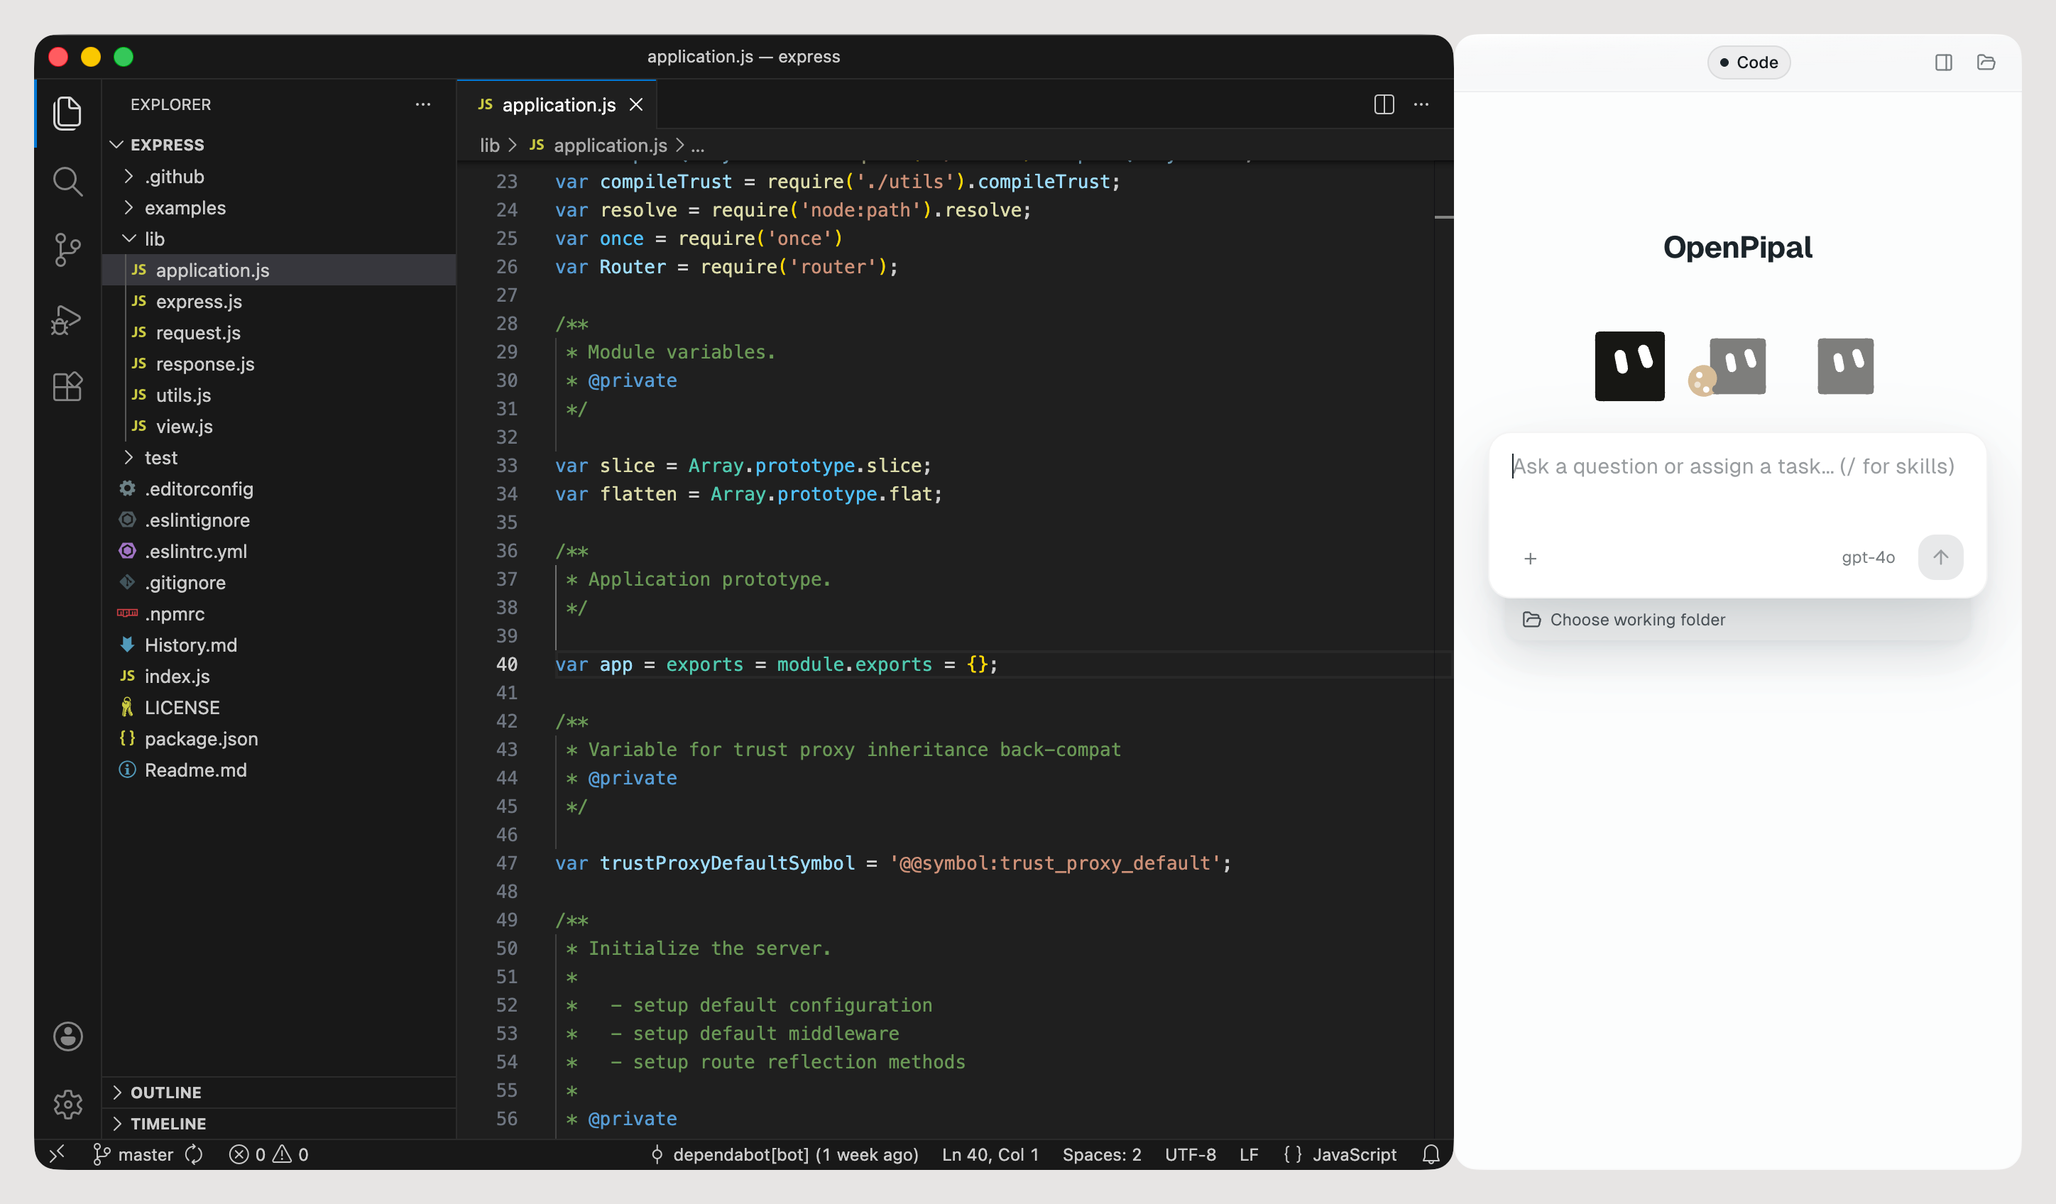
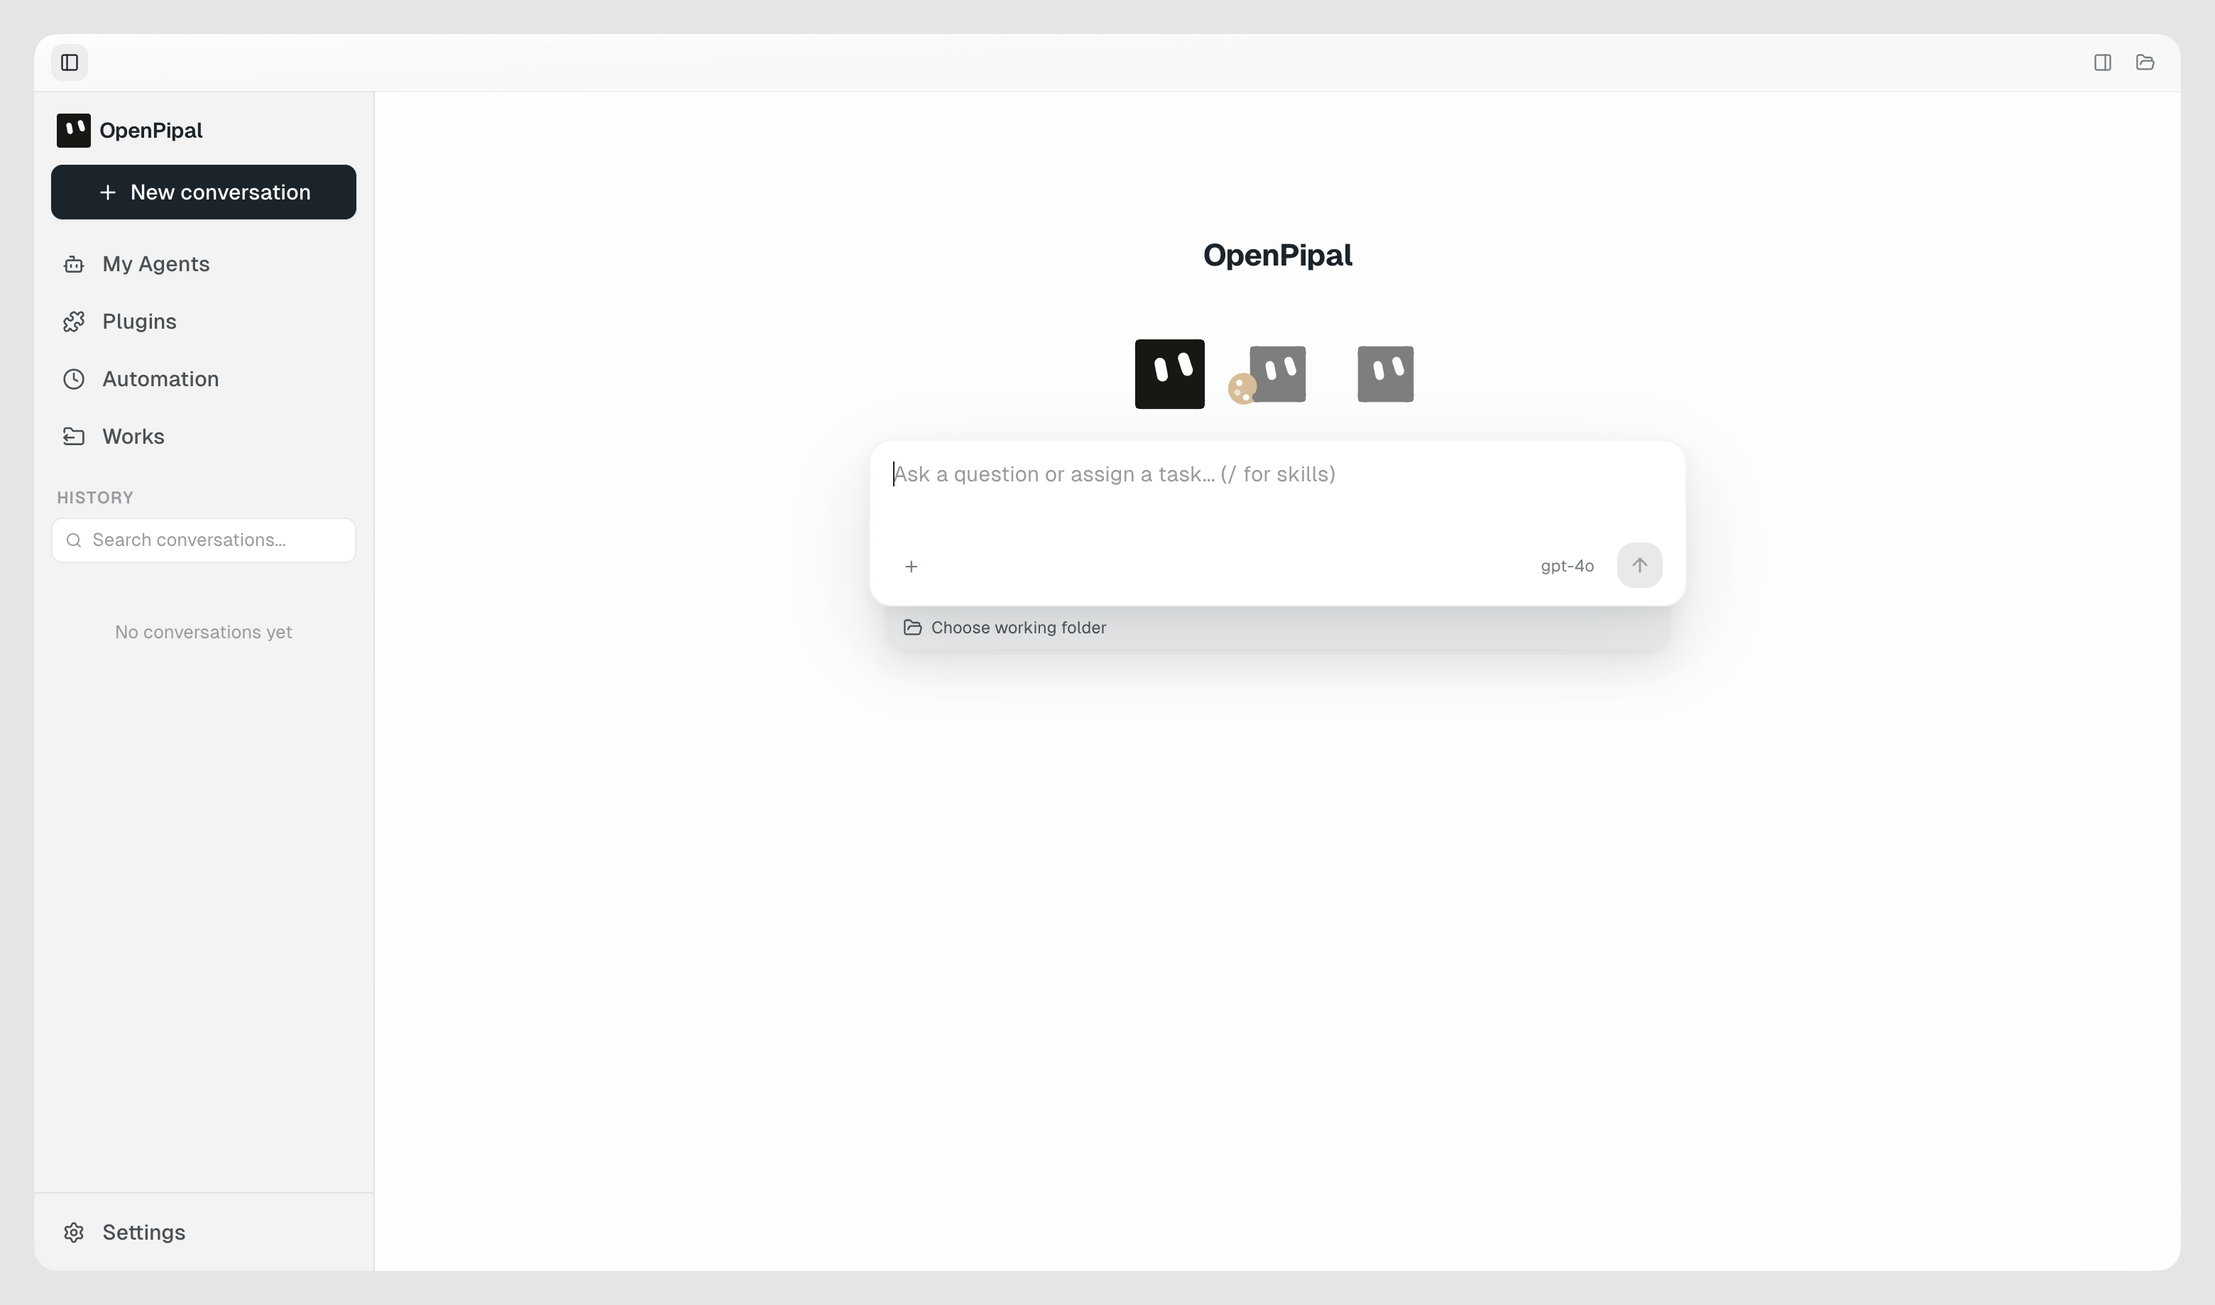
App following is now off by default, and the README leads with dedicated Agents
OpenPipal no longer docks itself beside other apps unless you turn that on
under Settings → Apps; a fresh install opens as a normal window. The
settings copy calls the switch "off" rather than "paused" to match.

Both READMEs are rewritten around what the app is for: a dedicated Agent
for every job, extended with plugins, Skills, MCP servers and the
command-line tools already on the Mac, run once or kept running on a
schedule or webhook, with Subagents, Works, and ACP reuse from any editor.
App following is listed as the option it now is, the permissions section
only mentions grants when a feature needs them, and the screenshots show
the app's own window instead of a docked panel.

diff --git a/src/shared/i18n/resources.ts b/src/shared/i18n/resources.ts
@@ -1185,11 +1185,11 @@ export const ZH_CN_MESSAGES = {
       },
       following: {
         title: '应用跟随',
-        description: '总开关控制所有应用；逐应用设置会在暂停期间保留',
+        description: '默认关闭。总开关控制所有应用；逐应用设置会在关闭期间保留',
         master: {
           title: '允许 OpenPipal 跟随应用',
           on: '已开启：切换应用时 OpenPipal 会自动跟随',
-          off: '已暂停：OpenPipal 不会跟随任何应用',
+          off: '已关闭：OpenPipal 不会跟随任何应用',
           toggleAria: '切换所有应用的跟随状态',
         },
         errors: {
@@ -3546,11 +3546,11 @@ export const EN_MESSAGES = {
       },
       following: {
         title: 'App following',
-        description: 'The master switch controls all apps; per-app choices stay saved while paused',
+        description: 'Off by default. The master switch controls all apps; per-app choices stay saved while it is off',
         master: {
           title: 'Allow OpenPipal to follow apps',
           on: 'On: OpenPipal follows as you switch apps',
-          off: 'Paused: OpenPipal will not follow any app',
+          off: 'Off: OpenPipal will not follow any app',
           toggleAria: 'Toggle following for all apps',
         },
         errors: {

diff --git a/src/main/app-follow-settings.ts b/src/main/app-follow-settings.ts
@@ -7,7 +7,8 @@ let cachedDetectedApps: Set<string> | null = null
 function ensureSettingsCache(): void {
   if (cachedFollowingEnabled !== null && cachedDisabledApps && cachedDetectedApps) return
   const config = loadConfig()
-  cachedFollowingEnabled = config.appFollowingEnabled !== false
+  // 默认关闭：只有用户在「设置 → 应用」里打开过才跟随（2026-09-02 所有者决定，产品不再主打贴边跟随）
+  cachedFollowingEnabled = config.appFollowingEnabled === true
   cachedDisabledApps = new Set(config.disabledApps || [])
   cachedDetectedApps = new Set(config.detectedApps || [])
 }

diff --git a/tests/unit/app-follow-settings.test.ts b/tests/unit/app-follow-settings.test.ts
@@ -28,7 +28,10 @@ beforeEach(() => {
 })
 
 describe('app following settings', () => {
-  it('defaults legacy configs to enabled', () => {
+  it('stays off until the user turns it on', () => {
+    expect(isAppFollowingEnabled()).toBe(false)
+    state.config = { appFollowingEnabled: true }
+    resetAppFollowSettingsCacheForTests()
     expect(isAppFollowingEnabled()).toBe(true)
   })
 

diff --git a/README.md b/README.md
@@ -1,6 +1,6 @@
 # OpenPipal
 
-> An AI companion that docks itself beside whatever app you're using — native on macOS, plus a browser side panel.
+> Open-source visual Agent app for macOS. No terminal required — connect a model and start.
 
 <p align="center">
   <a href="https://github.com/yuanlang12/OpenPipal/releases/latest">
@@ -13,11 +13,12 @@
 <p align="center">English · <a href="README.zh-CN.md">简体中文</a></p>
 
 <p align="center">
-  <img src="docs/readme/hero-en.png" width="900" alt="OpenPipal docked beside VS Code, showing its welcome screen" />
+  <img src="docs/readme/hero-en.png" width="900" alt="The OpenPipal window on first launch: My Agents, Plugins, Automation and Works in the sidebar, the welcome screen in the middle" />
 </p>
 
-Switch to any application and OpenPipal follows, docking to the side of your screen so the
-conversation stays next to the work instead of in another window.
+For every job, a dedicated Agent. Tell OpenPipal once how a piece of work should be done and
+it becomes an Agent with its own instructions, memory, skills and tasks — ready the next time
+you need it, or running on a schedule while you're not there.
 
 **It ships no model of its own.** Every request goes straight from your Mac to an
 OpenAI-compatible endpoint that you configure — your key, your provider, your bill.
@@ -56,11 +57,12 @@ listed in `OPEN-SOURCE-CUT.json` — the cut is reproducible, not hand-curated.
    xattr -dr com.apple.quarantine /Applications/OpenPipal.app
    ```
 
-3. **Grant the permissions it needs to dock and read windows.** Still in **System Settings →
-   Privacy & Security**, add OpenPipal under:
+3. **Permissions come up only when a feature needs them.** macOS asks the first time, or you
+   can add OpenPipal yourself under **System Settings → Privacy & Security**:
 
-   - **Accessibility** — follow the frontmost window so the panel can dock beside it
-   - **Screen Recording** — look at the target window when you ask it to
+   - **Accessibility** — only if you turn on app following (Settings → Apps), so the panel
+     can dock beside the frontmost window
+   - **Screen Recording** — look at a window when you ask it to
    - **Automation** — focus and paste into the application you picked
    - **Microphone** — only if you use voice input
 
@@ -103,25 +105,37 @@ Anything that speaks the OpenAI-compatible protocol works. Presets included:
 
 ## What it does
 
-- **Follows the foreground app** — switch windows and OpenPipal re-docks itself; switch it off
-  for one app or for all of them under **Settings → Apps**
-- **Mold an agent of your own** — tell it once how you like things done and that work is its
-  from then on; give it a face with the avatar editor. Start from the **My Agents** page, or
-  turn any conversation into one with **Save as Agent**
-- **Use it from your editor** — any editor that speaks the open
+- **Dedicated Agents** — save any conversation as an Agent with **Save as Agent**, or build
+  one on the **My Agents** page: its own instructions, look, memory and tasks. One job, one
+  Agent.
+- **Plugins, Skills, MCP and CLI tools** — extend an Agent with standard plugins
+  (`plugin.json` + Skills + MCP servers); the bundled Skills cover documents, PDFs, slides and
+  spreadsheets, plus a skill creator and a tool installer (type `/` in the composer to use
+  one); any Model Context Protocol server connects, with Context7 and DeepWiki as presets; and
+  the command-line tools already on your Mac, such as `gh`, `node` and `npm`, are available
+  as tools.
+- **Automation** — run a task once, or keep it running on a cron-style schedule or a webhook,
+  each run in a fresh conversation or accumulating in one.
+- **Subagents** — an Agent can split a job across Subagents, and each Subagent's conversation
+  can be expanded to see exactly what it did.
+- **Works** — everything Agents produce, collected in one place; the Visualizer renders cards,
+  charts, whiteboards and Mermaid diagrams live as the model writes them.
+- **Long-term memory** — per-agent, opt-in, stored as plain Markdown you can read and edit.
+- **Design it once, reuse it everywhere** — any editor that speaks the open
   [Agent Client Protocol](https://agentclientprotocol.com) can point at OpenPipal as its agent
-  server. The adapter ships inside the app; the launch command is under **Settings →
-  Connections**, next to a local HTTP interface for any other program
-- **Visualizer** — the model renders cards, charts, whiteboards and Mermaid diagrams live
-- **Skills** — type `/` in the composer to use one. Bundled: documents, PDFs, slides and
-  spreadsheets, plus a skill creator and a tool installer; import your own from a folder or a
-  GitHub repo
-- **Long-term memory** — per-agent, opt-in, stored as plain Markdown you can read and edit
-- **MCP** — connect any Model Context Protocol server; Context7 and DeepWiki ship as presets
-- **Browser side panel** — the same assistant, inside the browser
+  server (the adapter ships inside the app; the launch command is under **Settings →
+  Connections**), and any other program gets a local HTTP interface.
+- **Browser side panel** — the same assistant, inside Chrome, Edge or Brave.
 - **Design Assistant** — turns a brief into finished posters, slides and other visual
-  deliverables, then keeps editing them with you
-- **Coding Assistant** — the built-in agent that works inside your repository (below)
+  deliverables, then keeps editing them with you.
+- **Coding Assistant** — the built-in agent that works inside your repository (below).
+- **App following, if you want it** — off by default. Turn it on under **Settings → Apps** and
+  OpenPipal docks itself beside whatever app you switch to; you can leave individual apps out.
+
+Keep the model at the center; add complexity only when needed. OpenPipal is a minimal Agent
+core built on the open-source Pi agent framework, with controlled context and only the tools
+the work actually needs — and everything it plugs into is an open standard: ACP, MCP, Agent
+Skills and Agent Plugins.
 
 ### Coding Assistant
 
@@ -215,13 +229,17 @@ the install steps. Once per install.
 between English and Simplified Chinese, or follows the system (the default). It takes effect
 immediately.
 
+**Does it follow my apps around?** Only if you ask it to. App following is off by default and
+lives under **Settings → Apps**.
+
 **Is it free?** The app is. Model usage is billed by your provider directly to you; OpenPipal
 never sees the money or the key.
 
 **Can I run a local model?** Yes — point the Base URL at `http://localhost:11434/v1` for
 Ollama and use whatever model you've pulled.
 
-**Windows or Linux?** Not planned. The docking behaviour leans on macOS window APIs.
+**Windows or Linux?** Not planned for now. The app leans on macOS window, permission and
+sandbox APIs.
 
 **The extension does nothing.** Make sure the desktop app is running; the extension needs it
 on `localhost:3031`.

diff --git a/README.zh-CN.md b/README.zh-CN.md
@@ -1,6 +1,6 @@
 # OpenPipal
 
-> 一个会自动贴到你正在用的那个 App 旁边的 AI 助手 —— macOS 原生应用 + 浏览器侧栏。
+> 开源可视化 macOS Agent App · 无需命令行 · 连接模型即可开始
 
 <p align="center">
   <a href="https://github.com/yuanlang12/OpenPipal/releases/latest">
@@ -13,10 +13,11 @@
 <p align="center"><a href="README.md">English</a> · 简体中文</p>
 
 <p align="center">
-  <img src="docs/readme/hero-zh-CN.png" width="900" alt="OpenPipal 停靠在 VS Code 旁边，显示欢迎页" />
+  <img src="docs/readme/hero-zh-CN.png" width="900" alt="OpenPipal 首次启动的窗口：侧栏是我的 Agents、插件、自动化、作品，中间是欢迎页" />
 </p>
 
-你切到哪个应用，OpenPipal 就跟到哪儿，停在屏幕侧边——对话待在活儿旁边，而不是另开一个窗口。
+为每一项工作，定制一个 Agent。把一件活儿该怎么做教给 OpenPipal 一次，它就成了一个有自己
+指令、记忆、技能和任务的 Agent——下次直接用，或者按计划在你不在的时候自己跑。
 
 **它不自带任何模型。** 每一次请求都从你的 Mac 直接发往你自己配置的 OpenAI 兼容端点：
 你的密钥、你的服务商、你的账单。中间没有 OpenPipal 的服务器，因为根本就没有。
@@ -51,11 +52,11 @@ Agent、技能、MCP、记忆和浏览器扩展都不受影响。
    xattr -dr com.apple.quarantine /Applications/OpenPipal.app
    ```
 
-3. **把它贴边和读窗口要用的权限给上。** 还是在 **系统设置 → 隐私与安全性** 里，把
-   OpenPipal 加进这几项：
+3. **权限只在功能用到时才会问你。** macOS 第一次用到时会弹窗，你也可以自己去
+   **系统设置 → 隐私与安全性** 里把 OpenPipal 加进去：
 
-   - **辅助功能** —— 跟住最前面那个窗口，面板才知道该贴在哪
-   - **屏幕录制** —— 你让它看目标窗口时才用
+   - **辅助功能** —— 只有打开应用跟随（设置 → 应用）才需要，面板靠它知道该贴在哪
+   - **屏幕录制** —— 你让它看某个窗口时才用
    - **自动化** —— 聚焦、粘贴到你指定的那个应用
    - **麦克风** —— 只有用语音输入时才需要
 
@@ -94,21 +95,29 @@ Agent、技能、MCP、记忆和浏览器扩展都不受影响。
 
 ## 它能做什么
 
-- **跟随前台应用**——切窗口，OpenPipal 自己重新停靠；不想让它跟某个应用、或者全都别跟，
-  在 **设置 → 应用** 里关
-- **捏一个自己的 Agent**——教它一次你的做事方式，这摊活儿以后就归它；长相也随你捏，头像编辑器里
-  配饰随便换。从「我的 Agents」页开始，或者在任意对话里点**保存为 Agent**
-- **在你的编辑器里用它**——支持开放的 [Agent Client Protocol](https://agentclientprotocol.com)
-  的编辑器，把 OpenPipal 配成它的 agent server 就行。适配器随包带，启动命令在 **设置 → 连接** 里，
-  旁边还有给其他程序用的本机 HTTP 接口
-- **Visualizer**——模型实时渲染卡片、图表、白板和 Mermaid 图
-- **技能**——输入框里打 `/` 就能用。内置文档、PDF、幻灯片、表格处理，外加技能创建器和工具安装器；
-  也能从本地文件夹或 GitHub 仓库导入你自己的
-- **长期记忆**——按 Agent 分开，默认关闭，存成你能直接读能改的 Markdown
-- **MCP**——接任意 Model Context Protocol 服务器，Context7 和 DeepWiki 是内置预设
-- **浏览器侧栏**——同一个助手，在浏览器里也能用
-- **设计助手**——一句需求，直接做出海报、幻灯片这样的成品，再陪你一轮轮改
-- **编码助手**——在你的仓库里干活的内置 Agent（见下）
+- **专属 Agent**——任意对话点**保存为 Agent**，或者在「我的 Agents」页里新建：有自己的指令、
+  长相、记忆和任务。一项工作，一个 Agent。
+- **插件、技能、MCP 和命令行工具**——用标准插件（`plugin.json` + 技能 + MCP 服务器）扩展
+  Agent；内置技能覆盖文档、PDF、幻灯片、表格，外加技能创建器和工具安装器，输入框里打 `/`
+  就能用；任意 Model Context Protocol 服务器都能接，Context7 和 DeepWiki 是内置预设；你
+  Mac 上已经装好的命令行工具，比如 `gh`、`node`、`npm`，也能当工具用。
+- **自动化**——运行一次，或让它持续工作：Cron 式定时或 Webhook 触发，每次新建会话或持续
+  累积到同一会话。
+- **子 Agent**——一项任务可以拆给多个子 Agent 去做，每个子 Agent 的完整对话都能展开查看。
+- **作品**——Agent 产出的东西都收在一处；Visualizer 会在模型写的同时实时渲染卡片、图表、
+  白板和 Mermaid 图。
+- **长期记忆**——按 Agent 分开，默认关闭，存成你能直接读能改的 Markdown。
+- **设计一次，在每个流程里复用**——支持开放的 [Agent Client Protocol](https://agentclientprotocol.com)
+  的编辑器，把 OpenPipal 配成它的 agent server 就行（适配器随包带，启动命令在 **设置 → 连接**）；
+  其他程序走本机 HTTP 接口。
+- **浏览器侧栏**——同一个助手，在 Chrome / Edge / Brave 里也能用。
+- **设计助手**——一句需求，直接做出海报、幻灯片这样的成品，再陪你一轮轮改。
+- **编码助手**——在你的仓库里干活的内置 Agent（见下）。
+- **应用跟随，想要再开**——默认关闭。在 **设置 → 应用** 里打开后，你切到哪个应用，OpenPipal
+  就贴到它旁边；不想跟的应用可以单独关掉。
+
+让模型成为核心，复杂按需出现。OpenPipal 是基于开源 Pi 框架的极简 Agent 核心：可控的上下文、
+只带这项工作真正需要的工具；它接入的一切都是开放标准——ACP、MCP、Agent Skills、Agent Plugins。
 
 ### 编码助手
 
@@ -191,11 +200,13 @@ npx playwright test                      # 端到端
 **能换界面语言吗？** 能。**设置 → 外观 → 语言** 可以在简体中文和 English 之间切换，默认跟随系统，
 改完立刻生效。
 
+**它会一直跟着我的应用跑吗？** 不会。应用跟随默认关闭，想要的话在 **设置 → 应用** 里打开。
+
 **免费吗？** 应用免费。模型用量由服务商直接向你计费，OpenPipal 既不经手钱也不经手密钥。
 
 **能跑本地模型吗？** 能。Base URL 填 `http://localhost:11434/v1` 接 Ollama，模型名填你拉过的。
 
-**Windows / Linux？** 暂无计划。停靠行为依赖 macOS 的窗口 API。
+**Windows / Linux？** 暂无计划。App 依赖 macOS 的窗口、权限和沙箱 API。
 
 **扩展没反应。** 确认桌面端在运行，扩展需要它监听 `localhost:3031`。
 
